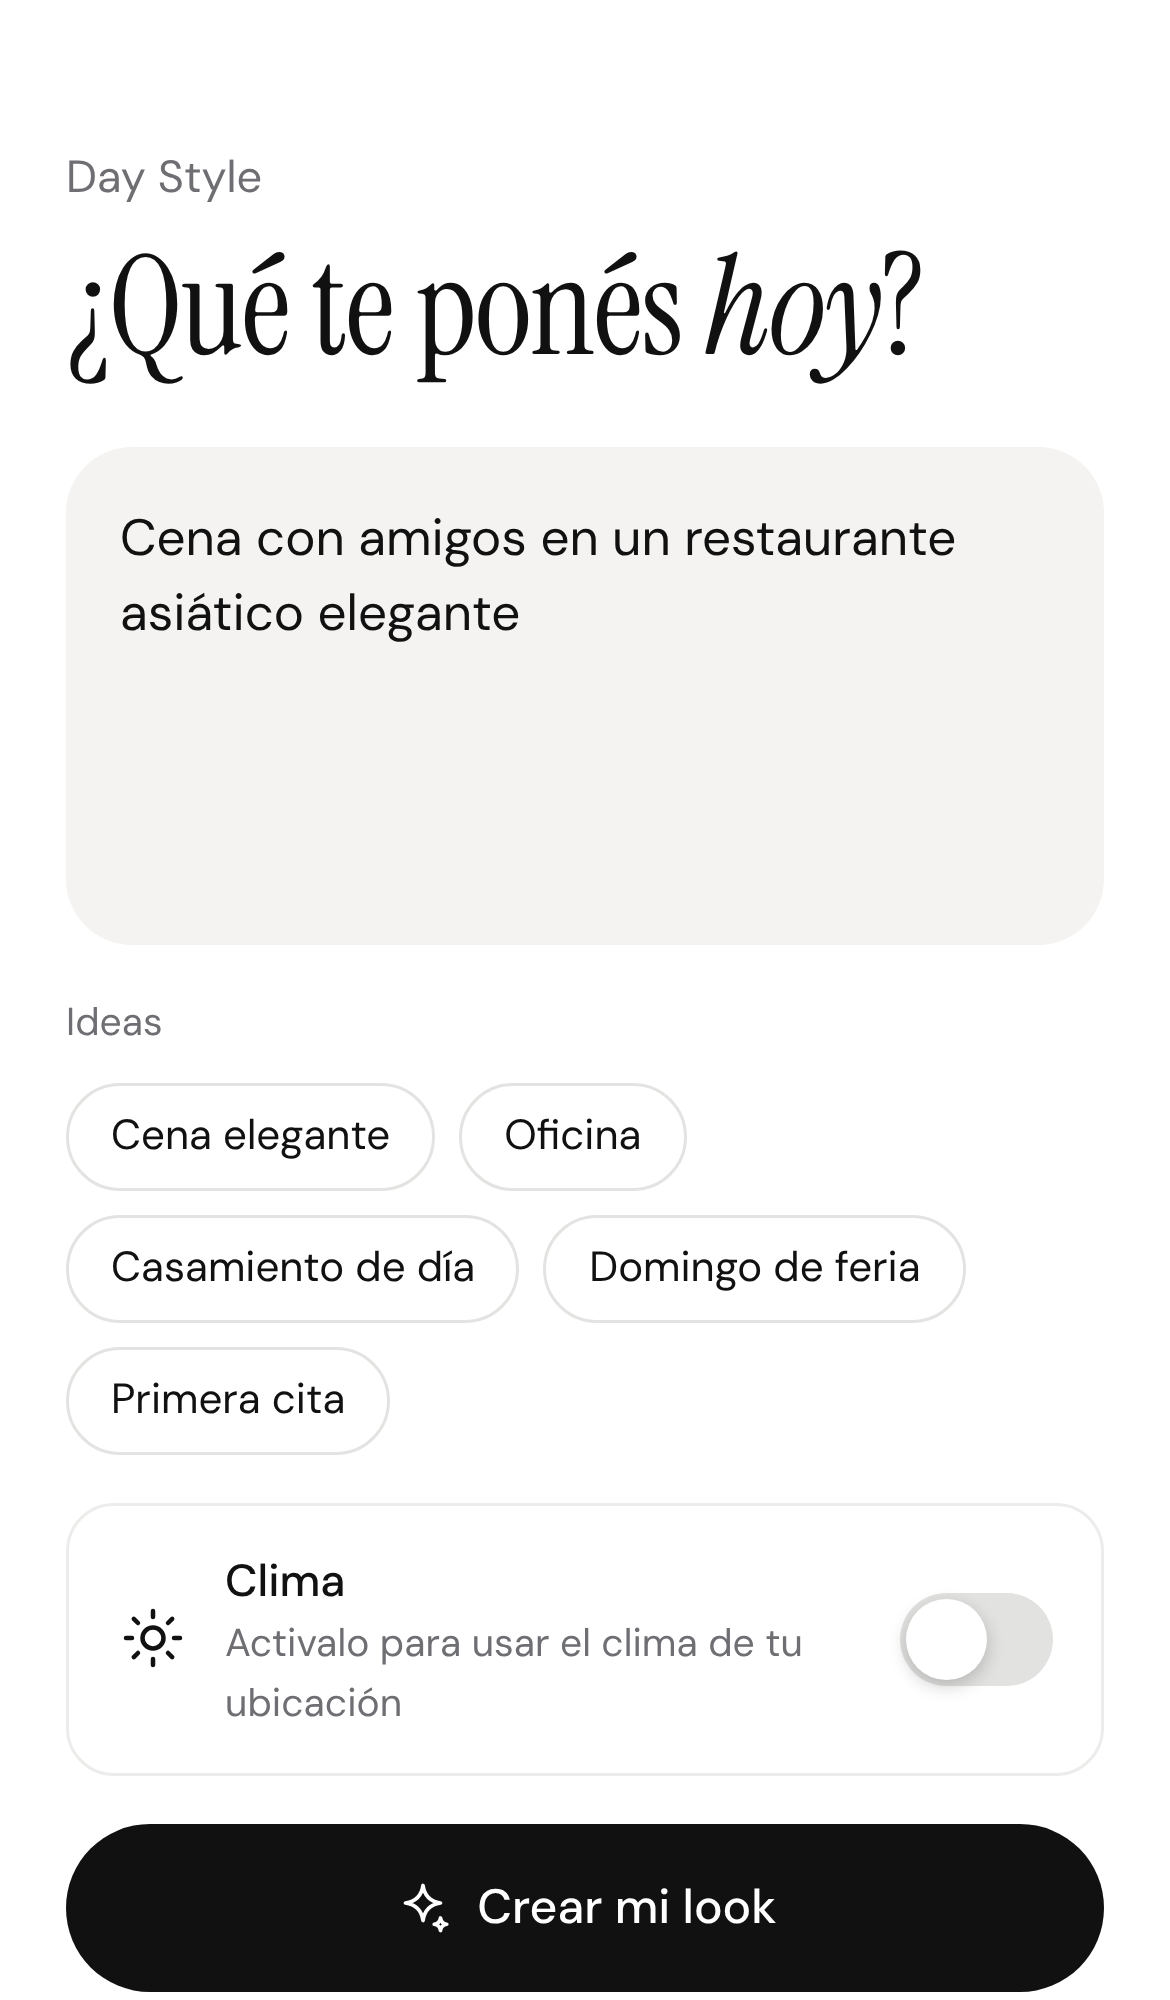
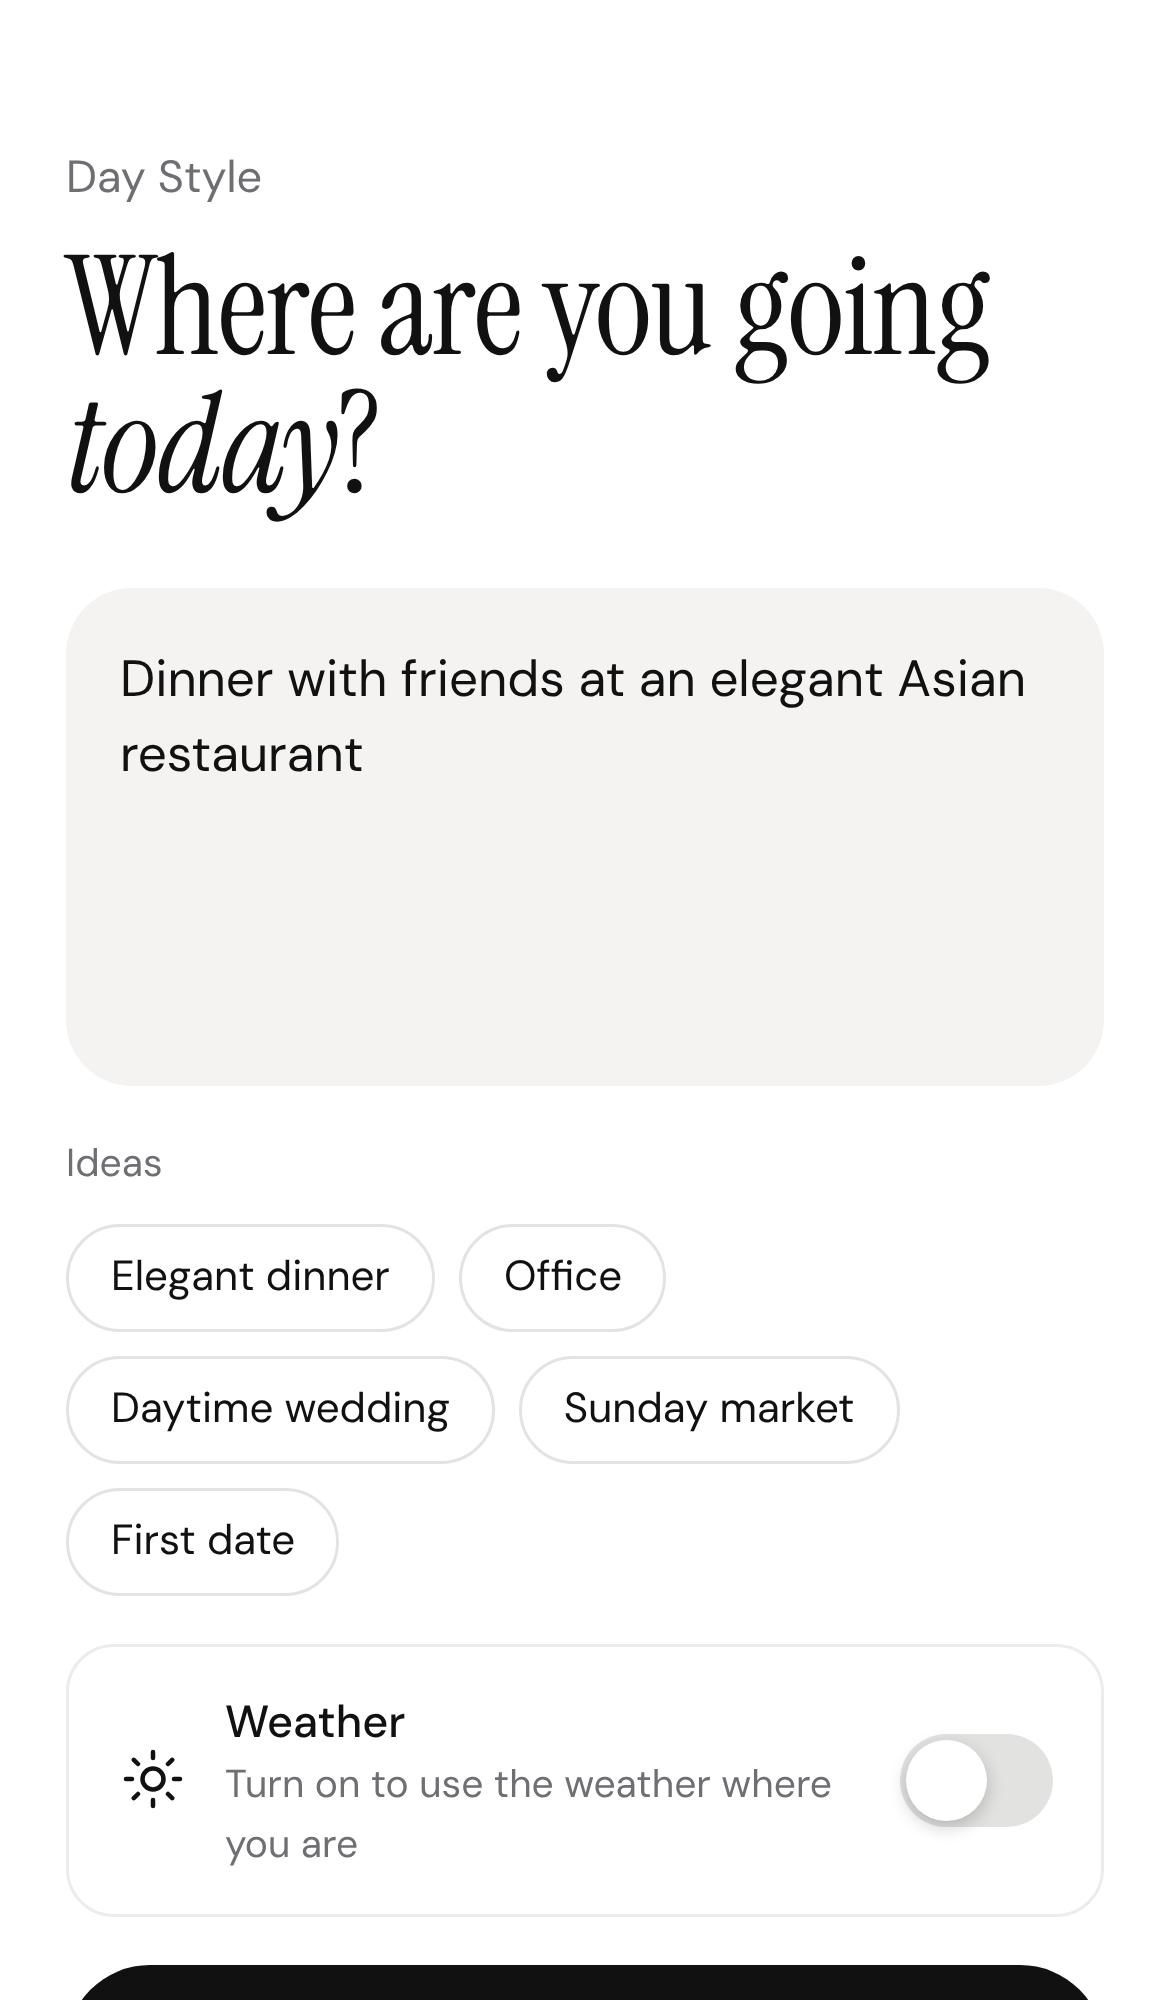
Screenshots and social preview in English, note the app is bilingual
The README screenshots and docs/social-preview.png were accidentally taken
with the app in Spanish. Regenerated them with the UI in English, and
added a line under the screenshots (EN and ES) noting the app works in
both English and Spanish, switchable from login or Account.

Claude-Session: https://claude.ai/code/session_01JX91AnHCZwxFTZkMNBmKmP

diff --git a/README.es.md b/README.es.md
@@ -15,6 +15,8 @@ Tu ropero personal y tu estilista con IA. Es una PWA (se instala en el celular d
   <img src="docs/screenshots/shopping.png" width="31%" alt="Shopping: sugerencias de la IA sobre qué comprar" />
 </p>
 
+<p align="center"><sub>La app funciona en español e inglés — se cambia desde el login o desde Cuenta. Las capturas de arriba están en inglés.</sub></p>
+
 - **Ropero**: tus prendas organizadas en carpetas. Vienen 7 por defecto (Camisas, Remeras, Pantalones, Calzado, Camperas, Accesorios, Otros) y podés crear, renombrar o borrar las que quieras. Cada prenda se sube con la cámara o desde la galería, con una descripción opcional.
 - **Day Style**: describís la ocasión ("cena con amigos en un restaurante asiático elegante") y Claude mira las fotos de tu ropero y te propone 2 o 3 outfits armados con tu ropa, teniendo en cuenta el clima del día.
 - **Inspiración** (dentro de Day Style): subís la foto de un look que te gusta (Instagram, Pinterest, la calle) y la IA lo recrea con tu ropa. Te dice qué tan parecido queda y qué prendas te faltarían para acercarte más; esas las podés sumar a tu lista de compras.

diff --git a/README.md b/README.md
@@ -17,6 +17,8 @@ It's a PWA (install it on your phone from the browser), built with React, Fireba
   <img src="docs/screenshots/shopping.png" width="31%" alt="Shopping: AI suggestions for what to buy next" />
 </p>
 
+<p align="center"><sub>The app works in English and Spanish — switch languages from the login screen or Account. Screenshots above are in English.</sub></p>
+
 ## Features
 
 - **Wardrobe** — garments organised in folders (7 defaults: Shirts, T-shirts, Trousers, Shoes, Jackets, Accessories, Other), fully editable. Add photos from the camera or gallery, with an optional description.
